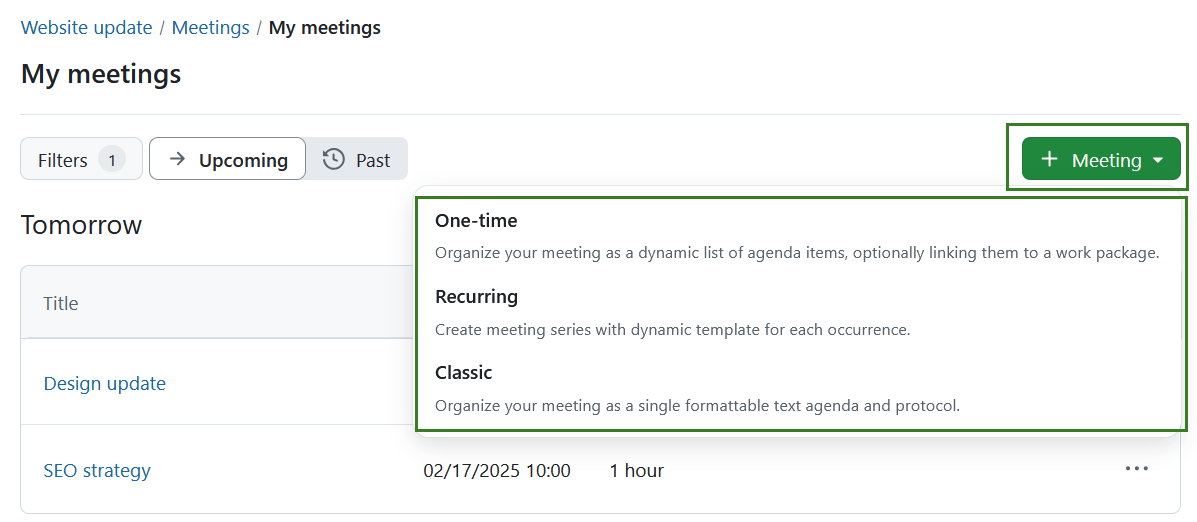
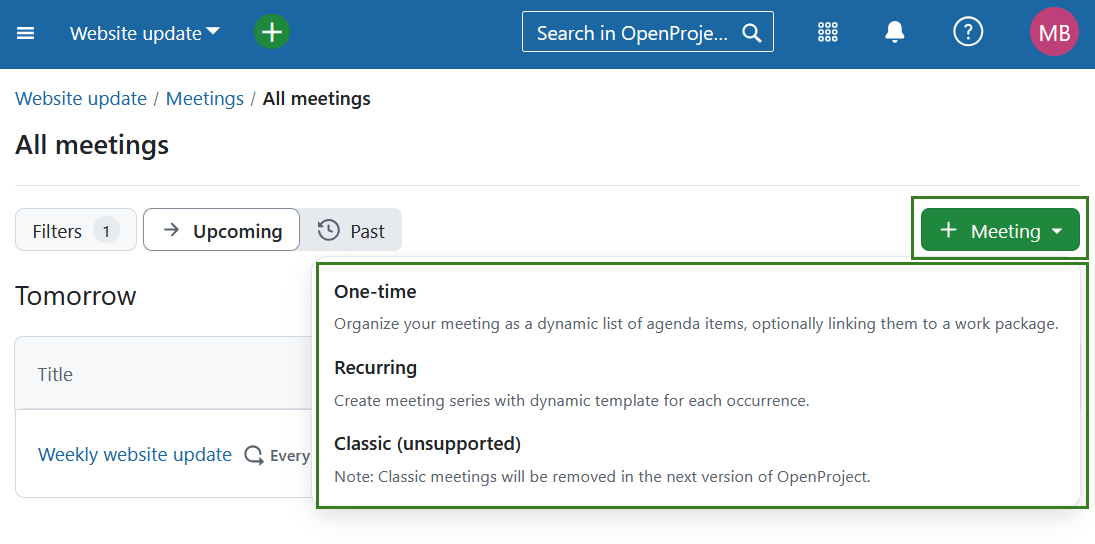
[#62771] Classic meetings sunsetting  https://community.openproject.org/work_packages/62771
[#62771] Classic meetings sunsetting

https://community.openproject.org/work_packages/62771

diff --git a/docs/user-guide/meetings/classic-meetings/README.md b/docs/user-guide/meetings/classic-meetings/README.md
@@ -19,7 +19,11 @@ Meetings in OpenProject allow you to manage and document your project meetings, 
 > With OpenProject 15.3 dynamic meetings are replaced by [one-time meetings](../one-time-meetings) and [recurring meetings](../recurring-meetings) to further improve meeting management.
 
 > [!IMPORTANT]
-> Please keep in mind that the ability to create classic meetings will eventually be removed from OpenProject.At the moment, the Meetings module lets you create classic or dynamic meetings but please keep in mind that the ability to create classic meetings will eventually be removed from OpenProject.
+> Please keep in mind that the ability to create classic meetings will be removed with OpenProject 16.0. Don't worry, no data will be lost: 
+> - All existing classic meetings will be converted into a one-time dynamic meetings. 
+> - Agenda text will be converted to agenda items. 
+> - Meeting minutes will be converted into meeting outcome. 
+> - Author informattion will be saved in the respective presenter fields. 
 
 | Topic                                                                     | Content                                     |
 |---------------------------------------------------------------------------|---------------------------------------------|

diff --git a/docs/user-guide/meetings/README.md b/docs/user-guide/meetings/README.md
@@ -18,7 +18,8 @@ Meetings in OpenProject allow you to manage and document your project meetings, 
 > [!IMPORTANT]
 > With OpenProject 13.1 we introduced dynamic meetings alongside [classic meetings](classic-meetings). 
 > With OpenProject 15.3 dynamic meetings are replaced by [one-time meetings](one-time-meetings) and [recurring meetings](recurring-meetings) to further improve meeting management.
-> Please keep in mind that the ability to create classic meetings will eventually be removed from OpenProject.
+> Please keep in mind that the ability to create classic meetings will be removed from OpenProject with OpenProject 16.0.
+
 
 
 | Topic                                               | Content                                                   |

diff --git a/docs/user-guide/meetings/meetings-faq/README.md b/docs/user-guide/meetings/meetings-faq/README.md
@@ -16,7 +16,12 @@ With OpenProject 15.3.0, dynamic meetings can either be [one-time meetings](../o
 
 ## How long will the classic meetings be available?
 
-[Classic meetings](../classic-meetings) will be deprecated with one of the future releases after 15.3. We will communicate this in advance to ensure a smooth transition for all our users.
+[Classic meetings](../classic-meetings) will be deprecated with 16.0 release. 
+
+- All existing classic meetings will be converted into a one-time dynamic meetings. 
+- Agenda text will be converted to agenda items. 
+- Meeting minutes will be converted into meeting outcome. 
+- Author informattion will be saved in the respective presenter fields. 
 
 ## Can I add a meeting to a calendar?
 
